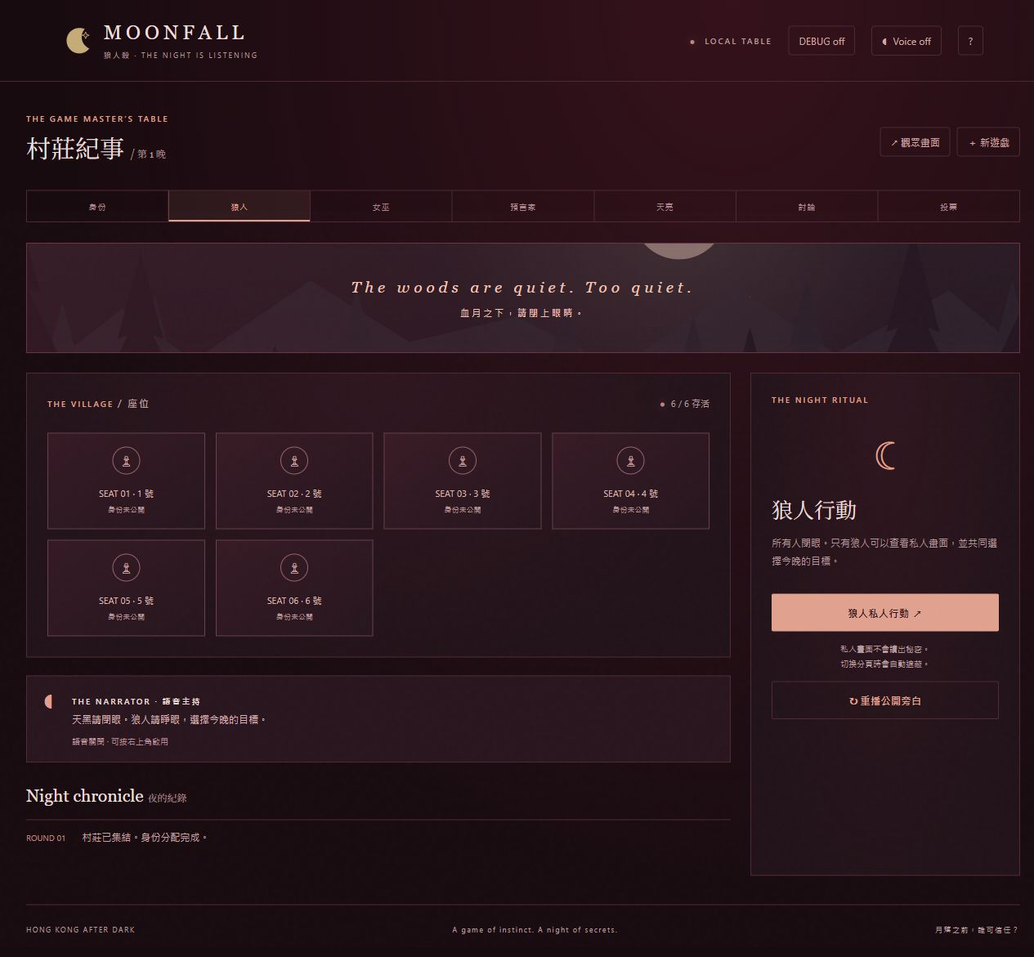
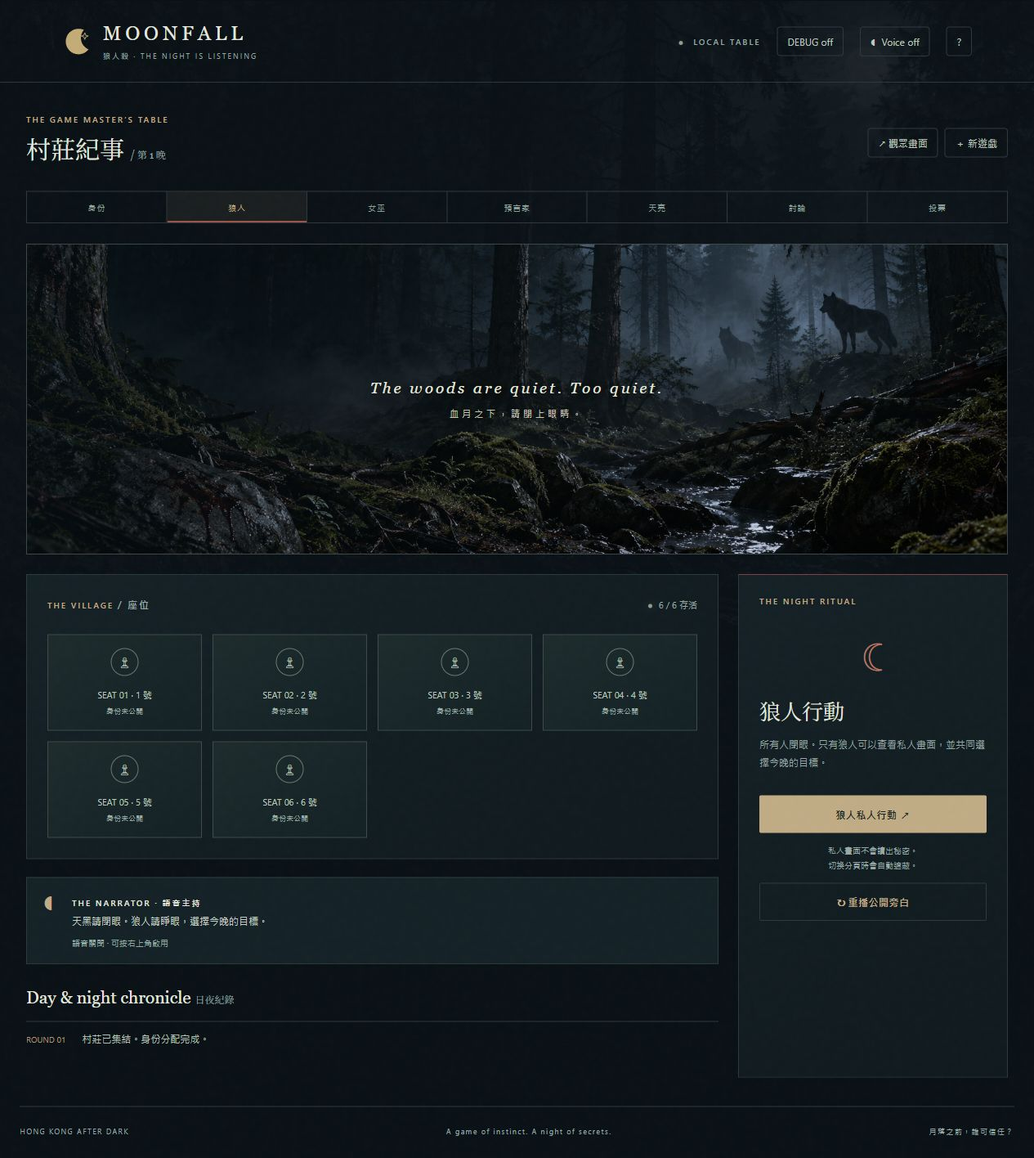
Create natural night forest, repair debug startup, and allow self-votes

diff --git a/frontend/app.js b/frontend/app.js
@@ -6,7 +6,7 @@ const privateDialog = $('#private-dialog');
 const labels = {wolf:'狼人',seer:'預言家',witch:'女巫',hunter:'獵人',villager:'平民'};
 const symbols = Object.fromEntries(Object.keys(labels).map(role=>[role,`<svg viewBox="0 0 48 48" aria-hidden="true"><use href="/assets/roles.svg#${role}"></use></svg>`]));
 const names = {reveal:'身份交接',wolves:'狼人行動',witch:'女巫行動',seer:'預言家查驗',dawn:'等待天亮',hunter:'獵人的最後一槍',discussion:'白天討論',vote:'村莊公投',runoff:'平票加賽',finished:'月落，真相浮現'};
-const descriptions = {reveal:'請將裝置交給指定座位。只有本人可以打開身份卡，確認後立即收起。',wolves:'所有人閉眼。只有狼人可以查看私人畫面，並共同選擇今晚的目標。',witch:'狼人閉眼，女巫睜眼。請女巫私下決定是否使用藥物。',seer:'女巫閉眼，預言家睜眼。查驗結果只會在私人畫面顯示。',dawn:'所有夜間行動已鎖定。確認大家睜眼後，公布昨晚的結果。',hunter:'勝負尚未結算。獵人可以帶走一位存活玩家，或放棄開槍。',discussion:'每個聲音都可能藏著線索。依座位發言，仔細聆聽，再作判斷。',vote:'依次記錄每位存活玩家的選擇。可以棄權，不能投自己。',runoff:'只在平票玩家之間再投一次。若仍平票，今晚無人出局。',finished:'所有秘密已經揭曉。回看每個座位的身份，拼出這一夜的故事。'};
+const descriptions = {reveal:'請將裝置交給指定座位。只有本人可以打開身份卡，確認後立即收起。',wolves:'所有人閉眼。只有狼人可以查看私人畫面，並共同選擇今晚的目標。',witch:'狼人閉眼，女巫睜眼。請女巫私下決定是否使用藥物。',seer:'女巫閉眼，預言家睜眼。查驗結果只會在私人畫面顯示。',dawn:'所有夜間行動已鎖定。確認大家睜眼後，公布昨晚的結果。',hunter:'勝負尚未結算。獵人可以帶走一位存活玩家，或放棄開槍。',discussion:'每個聲音都可能藏著線索。依座位發言，仔細聆聽，再作判斷。',vote:'依次記錄每位存活玩家的選擇。可以棄權，也可以投自己。',runoff:'只在平票玩家之間再投一次。若仍平票，今晚無人出局。',finished:'所有秘密已經揭曉。回看每個座位的身份，拼出這一夜的故事。'};
 const causes = {wolf:'夜晚出局',poison:'被毒殺',vote:'公投出局',hunter:'被獵人帶走'};
 const presets = {6:{wolf:2,seer:1,witch:1,hunter:0,villager:2},9:{wolf:3,seer:1,witch:1,hunter:1,villager:3},12:{wolf:4,seer:1,witch:1,hunter:1,villager:5}};
 let counts = {...presets[9]}, state = null, session = null, busy = false, voice = false, pollBusy = false;
@@ -15,7 +15,7 @@ let debugEnabled = sessionStorage.getItem('moonfall-debug') === 'true';
 let debugRequest = 0;
 function applyTheme(theme) {
   document.documentElement.dataset.theme = theme;
-  $('meta[name="theme-color"]').content = {lobby:'#0b1113',day:'#edf3eb',night:'#180b10'}[theme];
+  $('meta[name="theme-color"]').content = {lobby:'#0b1113',day:'#edf3eb',night:'#0a1116'}[theme];
 }
 function updateDebugButton() {
   $('#debug').hidden = !!session?.viewer;
@@ -33,7 +33,11 @@ async function loadDebug() {
     if (info.version !== state.version) { await refresh(); return; }
     slot.innerHTML = `<div class="debug-heading"><span class="eyebrow">DEBUG · 主持人專用</span><span class="muted">${escape(info.phase)} / v${info.version}</span></div><div class="debug-roster">${info.players.map(p=>`<div><strong>${p.seat} 號 · ${labels[p.role]}</strong><span>${p.alive?'存活':causes[p.cause]}</span></div>`).join('')}</div><p class="muted">解藥：${info.potions.save_used?'已使用':'未使用'} · 毒藥：${info.potions.poison_used?'已使用':'未使用'}<br>本晚狼刀：${info.night.kill??'無'} · 毒藥目標：${info.night.poison??'無'}${info.night.inspection?` · 查驗：${info.night.inspection.seat} 號（${info.night.inspection.alignment==='wolf'?'狼人':'好人'}）`:''}</p>`;
   } catch(error) {
-    if(request === debugRequest && $('#debug-panel')) slot.textContent = error.message;
+    if(request === debugRequest && $('#debug-panel')) {
+      const message = error.status === 404 ? 'DEBUG 尚未載入：伺服器可能仍在執行舊版本。請重新啟動 Python 伺服器，再重試。' : error.message;
+      slot.innerHTML = `<p class="dialog-error">${escape(message)}</p><button class="icon-button" id="retry-debug">重試 DEBUG</button>`;
+      $('#retry-debug').onclick = loadDebug;
+    }
   }
 }
 const escape = value => String(value).replace(/[&<>"']/g, c => ({'&':'&amp;','<':'&lt;','>':'&gt;','"':'&quot;',"'":'&#39;'}[c]));
@@ -45,7 +49,11 @@ async function api(path, options = {}) {
   try {
     const response = await fetch(path, {...options,signal:controller.signal,headers:{'Content-Type':'application/json',...(session ? {Authorization:`Bearer ${session.token}`} : {}),...options.headers}});
     const json = await response.json();
-    if (!response.ok) throw new Error(typeof json.detail === 'string' ? json.detail : '請檢查輸入，再試一次。');
+    if (!response.ok) {
+      const error = new Error(typeof json.detail === 'string' ? json.detail : '請檢查輸入，再試一次。');
+      error.status = response.status;
+      throw error;
+    }
     return json;
   } catch (e) { if (e.name === 'AbortError') throw new Error('連線逾時，請檢查網絡並重新同步。'); throw e; }
   finally { clearTimeout(timeout); }
@@ -121,7 +129,7 @@ function renderGame() {
   ${debug?'<section id="debug-panel" class="debug-panel" aria-label="DEBUG 主持人身份表"></section>':''}
   <div class="game-grid"><section><div class="table-panel"><div class="table-top"><p class="eyebrow">THE VILLAGE <span class="muted">/ 座位</span></p><span class="live-count"><i></i>${living} / ${state.players.length} 存活</span></div><div class="village">${state.players.map(pl=>`<article class="seat ${!pl.alive?'dead':''} ${pl.role==='wolf'?'revealed-wolf':''}"><div class="avatar">${p==='finished'?symbols[pl.role]:'♙'}</div><strong>SEAT ${String(pl.seat).padStart(2,'0')} · ${pl.seat} 號</strong><small>${p==='finished'?labels[pl.role]+' · '+(pl.alive?'存活':causes[pl.cause]):pl.alive?'身份未公開':'已出局'}</small></article>`).join('')}</div></div>
   <div class="narration"><span class="sigil">◖</span><div><span class="micro">THE NARRATOR · 語音主持</span><p>${escape(state.narration)}</p><small id="voice-status">${voice?'語音已啟用':'語音關閉 · 可按右上角啟用'}</small></div></div>
-  <section class="chronicle"><h3>Night chronicle <span class="muted">夜的紀錄</span></h3>${[...state.events].reverse().map(e=>`<div class="event"><time>ROUND ${String(e.day).padStart(2,'0')}</time><span>${escape(e.text)}</span></div>`).join('')}</section></section>
+  <section class="chronicle"><h3>Day & night chronicle <span class="muted">日夜紀錄</span></h3>${[...state.events].reverse().map(e=>`<div class="event"><time>ROUND ${String(e.day).padStart(2,'0')}</time><span>${escape(e.text)}</span></div>`).join('')}</section></section>
   <aside class="panel stage-panel"><p class="eyebrow">${p==='finished'?'THE EPILOGUE':night?'THE NIGHT RITUAL':'THE NEXT CHAPTER'}</p><div class="phase-symbol" aria-hidden="true">${({reveal:'✧',wolves:'☾',witch:'⚗',seer:'✧',dawn:'☼',hunter:'⌖',discussion:'☼',vote:'⚖',runoff:'⚖',finished:'☾'})[p]}</div><h2>${names[p]}</h2><p class="muted">${descriptions[p]}</p>${p==='reveal'?`<p class="notice">現在輪到 ${state.reveal_seat} 號玩家。其他人請移開視線。</p>`:''}${p==='hunter'?`<p class="notice">獵人：${state.hunter} 號</p>`:''}${p==='runoff'?`<p class="notice">平票座位：${state.runoff.join('、')} 號</p>`:''}
   ${p==='discussion'?(debug?'<p class="notice">DEBUG：略過討論倒數，可直接進入投票。</p>':'<div class="timer" id="timer">01:30</div><div class="timer-controls"><button class="icon-button" id="timer-toggle">開始計時</button><button class="icon-button" id="timer-reset">重設</button></div>'):''}
   ${!session.viewer && p!=='finished'?`<button class="primary" id="stage-action">${({reveal:'私下查看身份 ↗',wolves:'狼人私人行動 ↗',witch:'女巫私人行動 ↗',seer:'預言家私人行動 ↗',dawn:'公布昨晚結果 →',hunter:'決定最後一槍 ↗',discussion:'開始投票 →',vote:'記錄全體投票 ↗',runoff:'記錄加賽投票 ↗'})[p]}</button>`:''}
@@ -190,7 +198,7 @@ function renderPrivate(info) {
 }
 function openBallots() {
   const living=state.players.filter(p=>p.alive).map(p=>p.seat);
-  privateDialog.innerHTML=`<p class="eyebrow">THE VILLAGE DECIDES</p><h2>${state.phase==='runoff'?'平票加賽':'記錄全體投票'}</h2><p>先核對每人的選擇，再一次提交。空白代表棄權。</p><form id="ballot-form"><div class="ballot-list">${living.map(s=>`<label class="ballot-row"><span>${s} 號玩家投給</span><select name="${s}"><option value="">棄權</option>${(state.phase==='runoff'?state.runoff:living).filter(n=>n!==s).map(n=>`<option value="${n}">${n} 號</option>`).join('')}</select></label>`).join('')}</div><div class="button-row"><button class="secondary" type="button" id="cancel-ballot">返回</button><button class="primary">確認全體投票</button></div></form>`;
+  privateDialog.innerHTML=`<p class="eyebrow">THE VILLAGE DECIDES</p><h2>${state.phase==='runoff'?'平票加賽':'記錄全體投票'}</h2><p>先核對每人的選擇，再一次提交。空白代表棄權。</p><form id="ballot-form"><div class="ballot-list">${living.map(s=>`<label class="ballot-row"><span>${s} 號玩家投給</span><select name="${s}"><option value="">棄權</option>${(state.phase==='runoff'?state.runoff:living).map(n=>`<option value="${n}">${n} 號</option>`).join('')}</select></label>`).join('')}</div><div class="button-row"><button class="secondary" type="button" id="cancel-ballot">返回</button><button class="primary">確認全體投票</button></div></form>`;
   privateDialog.showModal();$('#cancel-ballot').onclick=closePrivate;
   $('#ballot-form').onsubmit=e=>{e.preventDefault();const ballots=Object.fromEntries([...new FormData(e.currentTarget)].map(([s,t])=>[s,t?Number(t):null]));action('ballots',{ballots});};
 }

diff --git a/frontend/themes.css b/frontend/themes.css
@@ -10,17 +10,17 @@
   --green: #4d805e;
 }
 :root[data-theme="night"] {
-  --bg: #180b10;
-  --panel: #241219;
-  --border: #4d2934;
-  --text: #eededc;
-  --muted: #b59a9e;
-  --gold: #e1a18f;
-  --green: #c4837d;
+  --bg: #0a1116;
+  --panel: #111b20;
+  --border: #2c393c;
+  --text: #e3e7df;
+  --muted: #98a8a6;
+  --gold: #c0ab85;
+  --green: #8a9e8a;
 }
 body { background: var(--bg); transition: background-color .65s, color .65s; }
 [data-theme="day"] body { background: radial-gradient(ellipse at 90% 0, #fff0cf 0, transparent 55%), var(--bg); }
-[data-theme="night"] body { background: radial-gradient(ellipse at 70% 0, #611c2c66 0, transparent 65%), var(--bg); }
+[data-theme="night"] body { background: linear-gradient(#0a1116e8, #0a1116fa 950px), url('/assets/forest-night.png') center top / 1600px auto no-repeat, var(--bg); }
 .game-hero { flex-direction: column; gap: 13px; }
 .game-hero small { font: 11px 'Segoe UI', 'Microsoft JhengHei', sans-serif; letter-spacing: 3px; }
 [data-theme="day"] .game-hero {
@@ -28,50 +28,50 @@ body { background: var(--bg); transition: background-color .65s, color .65s; }
   color: #294d3c; text-shadow: 0 1px #fff9; height: 135px;
 }
 [data-theme="night"] .game-hero {
-  background: linear-gradient(90deg, #5a152977, #480f2466), url('/assets/forest.svg') center 38% / cover;
-  color: #f2c4b9; border-color: #6b3443; height: 135px;
+  background: linear-gradient(90deg, #071116a6, #07111622 65%, #07111611), url('/assets/forest-night.png') center 72% / cover;
+  color: #e5e7d9; border-color: #3b4847; height: 380px; text-shadow: 0 2px 16px #000; letter-spacing: 3px;
 }
 [data-theme="day"] .panel, [data-theme="day"] .table-panel { background: linear-gradient(135deg, #fffef6, #e8efe4); }
-[data-theme="night"] .panel, [data-theme="night"] .table-panel { background: radial-gradient(ellipse at 50% 0, #64233333, transparent 80%), #211219; }
+[data-theme="night"] .panel, [data-theme="night"] .table-panel { background: linear-gradient(145deg, #152126f5, #10191ef5); }
 [data-theme="day"] .seat { background: linear-gradient(145deg, #fffef5, #e0ebdc); border-color: #bccdb7; }
-[data-theme="night"] .seat { background: linear-gradient(145deg, #44202c88, #26151d); border-color: #69404b; }
+[data-theme="night"] .seat { background: linear-gradient(145deg, #1d2b2c, #132024); border-color: #3c4b49; }
 [data-theme="day"] .seat .avatar { color: #4f7257; border-color: #9ab292; }
 [data-theme="day"] .seat strong { color: #304d3d; }
 [data-theme="day"] .seat small { color: #5c735f; }
-[data-theme="night"] .seat .avatar, [data-theme="night"] .seat strong { color: #dbb5b0; border-color: #96636b; }
-[data-theme="night"] .seat small { color: #b39498; }
+[data-theme="night"] .seat .avatar, [data-theme="night"] .seat strong { color: #b8c6ba; border-color: #687a70; }
+[data-theme="night"] .seat small { color: #99aba3; }
 [data-theme="day"] .seat.dead { background: #e0e3d8; }
-[data-theme="night"] .seat.dead { background: #1d1117; }
+[data-theme="night"] .seat.dead { background: #0d171c; }
 [data-theme="day"] .seat.revealed-wolf { border-color: #a45b4e; }
 [data-theme="day"] .icon-button { color: #4c6456; }
-[data-theme="night"] .icon-button { color: #d2a8a7; }
+[data-theme="night"] .icon-button { color: #bec7bb; }
 [data-theme="day"] .progress span { color: #617566; }
-[data-theme="night"] .progress span { color: #ac8992; }
+[data-theme="night"] .progress span { color: #8da09d; }
 [data-theme] .progress .current { color: var(--gold); background: color-mix(in srgb, var(--gold) 9%, transparent); }
 [data-theme="day"] .narration, [data-theme="day"] dialog { background: #fafbf2; }
-[data-theme="night"] .narration, [data-theme="night"] dialog { background: #28151e; }
+[data-theme="night"] .narration, [data-theme="night"] dialog { background: #142126; }
 [data-theme="day"] .narration p, [data-theme="day"] dialog p { color: #4b6655; }
-[data-theme="night"] .narration p, [data-theme="night"] dialog p { color: #d7b4b6; }
+[data-theme="night"] .narration p, [data-theme="night"] dialog p { color: #c1cfc5; }
 [data-theme="day"] .narration small { color: #5c7664; }
-[data-theme="night"] .narration small { color: #b68d96; }
+[data-theme="night"] .narration small { color: #93aaa2; }
 [data-theme="day"] .event { border-color: var(--border); color: #4b6855; }
-[data-theme="night"] .event { border-color: var(--border); color: #c7a4aa; }
+[data-theme="night"] .event { border-color: var(--border); color: #b4c3b9; }
 [data-theme="day"] .event time { color: #846b38; }
-[data-theme="night"] .event time { color: #c18a83; }
+[data-theme="night"] .event time { color: #aa9677; }
 [data-theme] .notice { color: var(--gold) !important; }
 [data-theme="day"] .primary { color: #fff9ec; }
-[data-theme="night"] .primary { color: #2d1118; }
+[data-theme="night"] .primary { color: #15201d; }
 [data-theme="day"] .primary:hover { background: #956c31; }
-[data-theme="night"] .primary:hover { background: #f0b6a0; }
+[data-theme="night"] .primary:hover { background: #d8c39a; }
 [data-theme] .secondary { color: var(--gold); border-color: var(--border); }
 [data-theme="day"] .status-pill { color: #3f704d; border-color: #9cb392; }
-[data-theme="night"] .status-pill { color: #d8a29f; border-color: #78414f; }
+[data-theme="night"] .status-pill { color: #a9bfaa; border-color: #526855; }
 [data-theme="day"] .ballot-row select, [data-theme="day"] .share-url { background: #fffef5; color: var(--text); border-color: var(--border); }
-[data-theme="night"] .ballot-row select, [data-theme="night"] .share-url { background: #1b0d15; color: var(--text); border-color: var(--border); }
+[data-theme="night"] .ballot-row select, [data-theme="night"] .share-url { background: #0d171c; color: var(--text); border-color: var(--border); }
 [data-theme="day"] .winner-banner { background: linear-gradient(120deg, #fbf0cf, #dfeedd); }
 [data-theme] footer { color: var(--muted); }
 [data-theme="day"] #toast { background: #f4f7e9; color: var(--text); }
-[data-theme="night"] #toast { background: #452431; border-color: #b87b83; }
+[data-theme="night"] #toast { background: #23352e; border-color: #728471; }
 .debug-panel { border: 1px dashed var(--gold); background: color-mix(in srgb, var(--gold) 7%, var(--bg)); padding: 20px; margin: 0 0 24px; }
 .debug-heading { display: flex; justify-content: space-between; gap: 15px; align-items: center; margin-bottom: 14px; }
 .debug-heading .eyebrow { margin: 0; }
@@ -90,3 +90,9 @@ body { background: var(--bg); transition: background-color .65s, color .65s; }
 }
 [hidden] { display: none !important; }
 @media (prefers-reduced-motion: reduce) { body { transition: none; } }
+
+[data-theme="night"] .game-hero small { color: #c4c6b3; letter-spacing: 4px; }
+[data-theme="night"] .stage-panel { border-top-color: #784440; }
+[data-theme="night"] .phase-symbol { color: #b07663; }
+[data-theme="night"] .progress .current { box-shadow: inset 0 -2px #9d5549; }
+@media(max-width:720px) { [data-theme="night"] .game-hero { height: 235px; padding: 20px; text-align: center; font-size: 16px; background-position: 62% center; } }

diff --git a/frontend/index.html b/frontend/index.html
@@ -20,7 +20,7 @@
   <main id="app" aria-live="polite"></main>
   <footer><span>HONG KONG AFTER DARK</span><span>A game of instinct. A night of secrets.</span><span>月落之前，誰可信任？</span></footer>
   <dialog id="private-dialog" aria-label="私人角色操作"></dialog>
-  <dialog id="help-dialog"><button class="close" data-close="help-dialog" aria-label="Close rules">×</button><p class="eyebrow">THE HOUSE RULES</p><h2>入夜前，先講清規矩。</h2><p>狼人每晚共同選一個目標，可空刀。預言家每晚查驗一人，不能查自己。女巫全局各有一瓶解藥及毒藥，每晚最多用一瓶；預設不能自救，被刀當晚仍可行動。</p><p>獵人被刀、投票或槍殺可開槍，被毒不能開槍。所有死亡及獵人行動完成後，才判定勝負。狼人全滅則好人勝；預設狼人數目不少於好人則狼人勝。雙方同時全滅為平局。</p><p>每位存活玩家一票，可棄權、不能自投。平票者加賽一次，再平票或全體棄權則無人出局。</p><p class="notice">這是同場遊戲的主持工具。私人畫面只交給指定角色查看。觀眾請使用「觀眾畫面」，不要分享主持人的瀏覽器。</p></dialog>
+  <dialog id="help-dialog"><button class="close" data-close="help-dialog" aria-label="Close rules">×</button><p class="eyebrow">THE HOUSE RULES</p><h2>入夜前，先講清規矩。</h2><p>狼人每晚共同選一個目標，可空刀。預言家每晚查驗一人，不能查自己。女巫全局各有一瓶解藥及毒藥，每晚最多用一瓶；預設不能自救，被刀當晚仍可行動。</p><p>獵人被刀、投票或槍殺可開槍，被毒不能開槍。所有死亡及獵人行動完成後，才判定勝負。狼人全滅則好人勝；預設狼人數目不少於好人則狼人勝。雙方同時全滅為平局。</p><p>每位存活玩家一票，可棄權、可以自投。平票者加賽一次，再平票或全體棄權則無人出局。</p><p class="notice">這是同場遊戲的主持工具。私人畫面只交給指定角色查看。觀眾請使用「觀眾畫面」，不要分享主持人的瀏覽器。</p></dialog>
   <div id="toast" role="status"></div>
 </body>
 </html>

diff --git a/backend/app.py b/backend/app.py
@@ -14,6 +14,7 @@ from .speech import Speech
 from .store import Store
 
 ROOT = Path(__file__).resolve().parent.parent
+VERSION = "1.2.0"
 
 
 class CreateGame(BaseModel):
@@ -36,7 +37,7 @@ def create_app(database=None):
         app.state.speech = Speech()
         yield
 
-    app = FastAPI(title="Moonfall · 狼人殺", version="1.1.0", lifespan=lifespan, docs_url=None, redoc_url=None)
+    app = FastAPI(title="Moonfall · 狼人殺", version=VERSION, lifespan=lifespan, docs_url=None, redoc_url=None)
     auth = HTTPBearer(auto_error=False)
 
     def token(credentials: HTTPAuthorizationCredentials | None = Depends(auth)):
@@ -61,6 +62,7 @@ def create_app(database=None):
         response.headers["Cache-Control"] = "no-store"
         response.headers["X-Content-Type-Options"] = "nosniff"
         response.headers["Referrer-Policy"] = "no-referrer"
+        response.headers["X-Moonfall-Version"] = VERSION
         response.headers["Content-Security-Policy"] = "default-src 'self'; script-src 'self'; style-src 'self'; img-src 'self' data:; media-src 'self' blob:; connect-src 'self'; frame-ancestors 'none'; base-uri 'self'"
         return response
 
@@ -78,7 +80,7 @@ def create_app(database=None):
 
     @app.get("/api/health")
     def health():
-        return {"status": "ok"}
+        return {"status": "ok", "version": VERSION}
 
     @app.post("/api/games", status_code=201)
     def create(body: CreateGame):

diff --git a/tests/test_engine.py b/tests/test_engine.py
@@ -127,15 +127,32 @@ def test_ballots_tie_runoff_then_tie_means_no_death():
     assert all(p["alive"] for p in g["players"])
 
 
-def test_votes_require_alive_voters_and_targets_no_self_vote():
+def test_votes_require_alive_voters_and_targets():
     g = game(phase="vote")
     ballots = {str(i): None for i in range(1, 8)}
-    for invalid in ({"1": 2}, {**ballots, "1": 1}, {**ballots, "1": 99}, {**ballots, "1": True}):
+    for invalid in ({"1": 2}, {**ballots, "1": 99}, {**ballots, "1": True}):
         with pytest.raises(RuleError):
             act(g, "ballots", {"ballots": invalid})
     g["players"][6]["alive"] = False
     with pytest.raises(RuleError):
         act(g, "ballots", {"ballots": ballots})
+
+
+def test_self_vote_can_eliminate_the_voter():
+    g = game(phase="vote")
+    ballots = {str(i): (1 if i == 1 else None) for i in range(1, 8)}
+    g = act(g, "ballots", {"ballots": ballots})
+    assert not g["players"][0]["alive"]
+    assert g["players"][0]["cause"] == "vote"
+
+
+def test_self_vote_is_also_allowed_in_runoff():
+    g = game(phase="vote")
+    ballots = {str(i): i for i in range(1, 8)}
+    g = act(g, "ballots", {"ballots": ballots})
+    assert g["phase"] == "runoff"
+    g = act(g, "ballots", {"ballots": ballots})
+    assert g["phase"] == "wolves" and all(p["alive"] for p in g["players"])
 
 
 def test_hunter_vote_can_kill_last_wolf_before_victory():

diff --git a/run.py b/run.py
@@ -1,0 +1,17 @@
+"""Local launcher: reload Python changes so new UI cannot outpace the API."""
+import argparse
+import os
+from pathlib import Path
+
+import uvicorn
+
+
+if __name__ == "__main__":
+    parser = argparse.ArgumentParser(description="Run Moonfall locally with automatic backend reload.")
+    parser.add_argument("--port", type=int, default=8000)
+    parser.add_argument("--no-reload", action="store_true")
+    args = parser.parse_args()
+    root = Path(__file__).resolve().parent
+    os.chdir(root)
+    uvicorn.run("backend.app:app", host="127.0.0.1", port=args.port,
+                reload=not args.no_reload, reload_dirs=[str(root)] if not args.no_reload else None)

diff --git a/backend/engine.py b/backend/engine.py
@@ -204,7 +204,7 @@ def act(original, action, data):
         seats = alive(g)
         require(isinstance(ballots, dict) and set(ballots) == {str(s) for s in seats}, "必須記錄每位存活玩家的一票（或棄權）。")
         for voter, choice in ballots.items():
-            target(g, choice, [int(voter)])
+            target(g, choice)
             require(choice is None or phase != "runoff" or choice in g["runoff"], "加賽只可投平票玩家。")
         tally = Counter(s for s in ballots.values() if s is not None)
         leaders = sorted(s for s, n in tally.items() if n == max(tally.values())) if tally else []

diff --git a/tests/test_api.py b/tests/test_api.py
@@ -47,7 +47,8 @@ def test_validation_and_same_origin(client):
     assert response.status_code == 200
     assert "frame-ancestors 'none'" in response.headers["content-security-policy"]
     assert response.headers["cache-control"] == "no-store"
-    assert client.get("/api/health").json() == {"status": "ok"}
+    assert client.get("/api/health").json() == {"status": "ok", "version": "1.2.0"}
+    assert response.headers["x-moonfall-version"] == "1.2.0"
 
 
 def test_debug_identity_sheet_is_host_only_and_does_not_change_public_state(client):

diff --git a/README.md b/README.md
@@ -20,15 +20,17 @@ Windows PowerShell:
 
 ```powershell
 .venv\Scripts\python -m pip install -r requirements.txt
-.venv\Scripts\python -m uvicorn backend.app:app --host 127.0.0.1 --port 8000
+.venv\Scripts\python run.py
 ```
 
 macOS / Linux:
 
 ```bash
 .venv/bin/python -m pip install -r requirements.txt
-.venv/bin/python -m uvicorn backend.app:app --host 127.0.0.1 --port 8000
+.venv/bin/python run.py
 ```
+
+The local launcher automatically reloads Python changes. After updating an older running server, stop it once with `Ctrl+C` and use `python run.py`; refreshing the browser alone cannot update an already-loaded backend. `/api/health` reports the running version.
 
 Open **[http://127.0.0.1:8000](http://127.0.0.1:8000)**. Stop with `Ctrl+C`.
 
@@ -45,11 +47,11 @@ Use **觀眾畫面** for a read-only public table in another window. The host br
 
 Every action saves to SQLite. Reloading the same tab resumes the game; the home page offers a resume button for its existing session. **Keep the host tab open:** credentials live in session storage; closing/clearing it can lose host access. There is no account recovery.
 
-The table follows the game clock: wolves/witch/seer phases use a restrained blood-red night palette; dawn, hunter resolution, discussion, voting, and recap switch to a bright morning palette. Setup retains the original moonlit style.
+The table follows the game clock: wolves/witch/seer phases use a moonlit forest with mist, wolf silhouettes, and small blood traces; dawn, hunter resolution, discussion, voting, and recap switch to a bright morning palette. Setup retains the original moonlit style.
 
 | Morning | Night |
 | --- | --- |
-| ![Bright morning table](docs/day-preview.png) | ![Blood-red night table](docs/night-preview.png) |
+| ![Bright morning table](docs/day-preview.png) | ![Moonlit night table](docs/night-preview.png) |
 
 For testing, toggle **DEBUG on** in the host header. It shows all seat identities, potion inventory, and pending night actions in a host-only panel. During discussion it replaces the timer with **跳過討論（DEBUG）**, which goes straight to voting. The toggle is saved in the tab session and can be turned off at any time. Audience links never receive debug information. Turn debug off before handing the host device to players.
 
@@ -57,7 +59,7 @@ For testing, toggle **DEBUG on** in the host header. It shows all seat identitie
 
 | Area | Implementation |
 | --- | --- |
-| Frontend | Responsive HTML/CSS/ES modules, original forest SVG, dark teal and antique gold, English/Traditional Chinese copy |
+| Frontend | Responsive HTML/CSS/ES modules, moonlit forest artwork, SVG icons, dark teal and antique gold, English/Traditional Chinese copy |
 | Backend | FastAPI, pure game state machine, strict validation, SQLite transactions, optimistic version checks |
 | Privacy | Separate host/viewer capabilities, server-side public/private views, no private TTS, no-store responses |
 | Audio | One cancellable playback owner, stale-response guards, timeouts/retry/cache, Cantonese system-voice fallback, captions |
@@ -109,7 +111,7 @@ frontend/
   style.css     responsive moonlit design
   app.js        table, handoffs, ballots, timer, audience mode
   audio.mjs     single cancellable audio owner
-  assets/       original SVG artwork
+  assets/       SVG artwork and generated night forest
 tests/          rules, API, speech, and audio tests
 docs/           architecture, rules review, terminal guide
 wolfman_kill.py original terminal application

diff --git a/docs/VALIDATION.md b/docs/VALIDATION.md
@@ -1,10 +1,11 @@
 # Validation — 2026-10-15
 
-- Python 3.14: 27 pytest cases passed (rules, API/auth, host-only debug privacy, concurrency, restart persistence, speech failure/cache, terminal hunter regression).
+- Python 3.14: 29 pytest cases passed (rules including self-votes in normal/runoff ballots, API/auth, host-only debug privacy, concurrency, restart persistence, speech failure/cache, terminal hunter regression).
 - Node 24: 8 frontend tests passed (audio replay, late responses, mute races, Cantonese/text fallback, night/day/dawn/hunter theme selection). JavaScript syntax checks passed.
 - Browser: complete 6-player game through role dealing, two nights, witch/seer actions, dawn, discussion timer, ballots, village victory, and full recap. Audience mode and URL credential removal verified. No console errors in the inspected session.
 - Responsive checks: 1280px desktop and 390px mobile widths, without horizontal document overflow. `preview.png` captures the desktop setup.
 - Version 1.1 browser checks: night-to-dawn palette transition, 「返回」without submission, host debug identity sheet, debug persistence through reload, restoring normal timer when debug is off, skipping discussion directly to voting, and audience mode with no debug toggle/panel. `day-preview.png` and `night-preview.png` capture both palettes. No browser console errors observed.
+- Version 1.2: diagnosed the active port 8000 server as an older 1.0 process without the debug route. Restarted it with the new autoreloading launcher and verified `/api/health` reports 1.2.0, DEBUG shows all identities, and a player can select their own seat and be eliminated by that self-vote. The chronicle contains both dawn and vote events. The updated `night-preview.png` shows the natural forest backdrop. No browser console errors observed.
 - Real Edge TTS request: service unavailable here (HTTP 503 after about 7.5 seconds). The failure stayed within its time budget; game state remained available. Automated fallback tests pass; physical speaker output has not been listened to.
 - Docker is not installed on the development machine, so the supplied image has not been built locally.
 - GitHub Actions is configured for Python 3.13/3.14 and Node 22. Local results do not imply the hosted workflow has completed.

diff --git a/docs/ASSETS.md b/docs/ASSETS.md
@@ -1,0 +1,7 @@
+# Generated forest backdrop
+
+- Asset: `frontend/assets/forest-night.png`
+- Created with the built-in image generation tool; used as a project background, with CSS overlays for legibility. The generated file is copied into this repository.
+- Final prompt:
+
+> Use case: photorealistic-natural. Asset type: wide cinematic background for an in-person Werewolf game website. Primary request: a natural moonlit night forest, atmospheric and subtly unsettling, with wolf shadows and a few restrained blood stains, not an entire red scene. Scene: deep real pine woodland, layered trunks, moss and wet ground, low silver-blue drifting mist and dim moonlight through branches. Two distant wolf silhouettes partly hidden between trees, believable animal anatomy, almost shadows, no glowing eyes. A few small dark dried crimson blood smears on a foreground stone and bark, non-graphic, no bodies or injuries. Composition: panoramic landscape around 2:1, forest floor and wolves readable around middle-right, dark uncluttered central-left space for website typography, rich scene detail across edges. Colors: charcoal, midnight blue, muted forest green, soft silver moonlight; red only in tiny localized blood marks. Style: grounded cinematic photography, natural textures, quiet suspense, restrained subtle horror. No red color filter, no cartoon/vector look, no UI, no text, no logos or watermark.

diff --git a/docs/RULES.md b/docs/RULES.md
@@ -13,7 +13,7 @@ The web engine uses explicit house rules; Hong Kong tables may use different con
 | Night deaths | Resolve together at dawn. Private target lists use night-start living seats, including tonight's victims. |
 | Missing/dead role | Same public phase and neutral prompt; host acknowledges privately. No announcement of absence. |
 | Hunter | May shoot after wolf/vote/shot death; poison disables it. May decline. Winner checks wait for the shot. |
-| Ballots | One per living voter. No self-vote or dead target/voter. Abstain allowed. Most votes eliminates; no absolute-majority requirement. |
+| Ballots | One per living voter. Self-votes and abstentions allowed; no dead target/voter. Most votes eliminates; no absolute-majority requirement. |
 | Ties | One runoff among tied leaders; all living players vote. Another tie or all abstentions → no elimination. |
 | Victory | After deaths/hunter: no wolves → village; wolves ≥ good → wolves by default. Parity off requires eliminating all good. |
 | Both factions gone | Draw, evaluated before either side's victory. |
